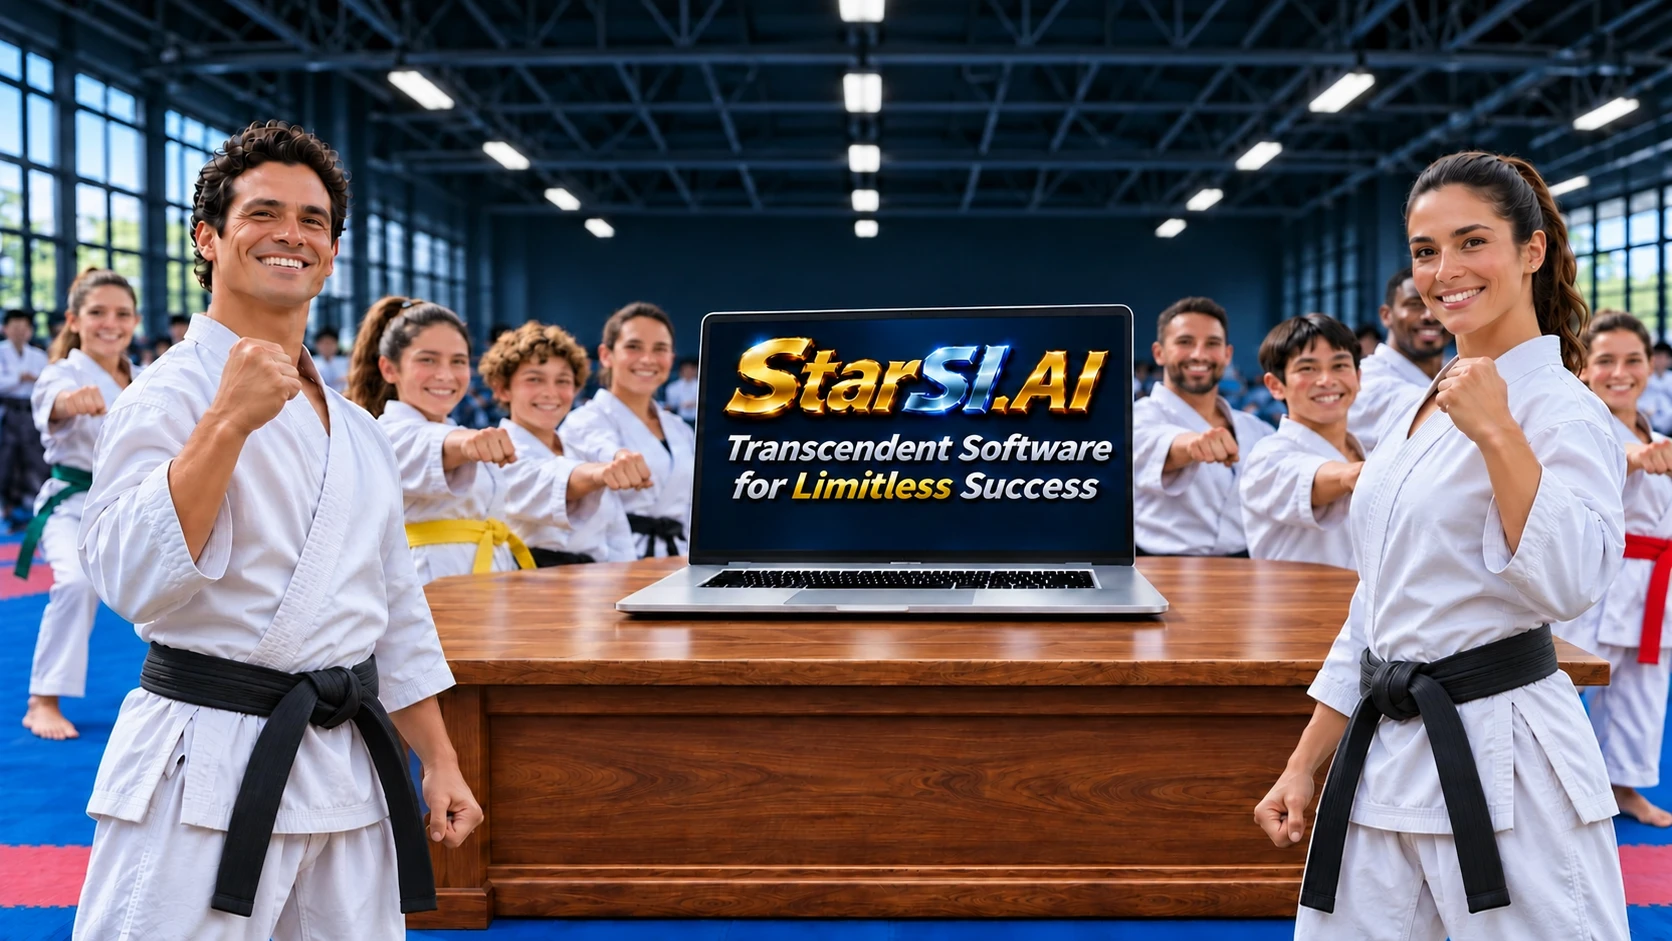
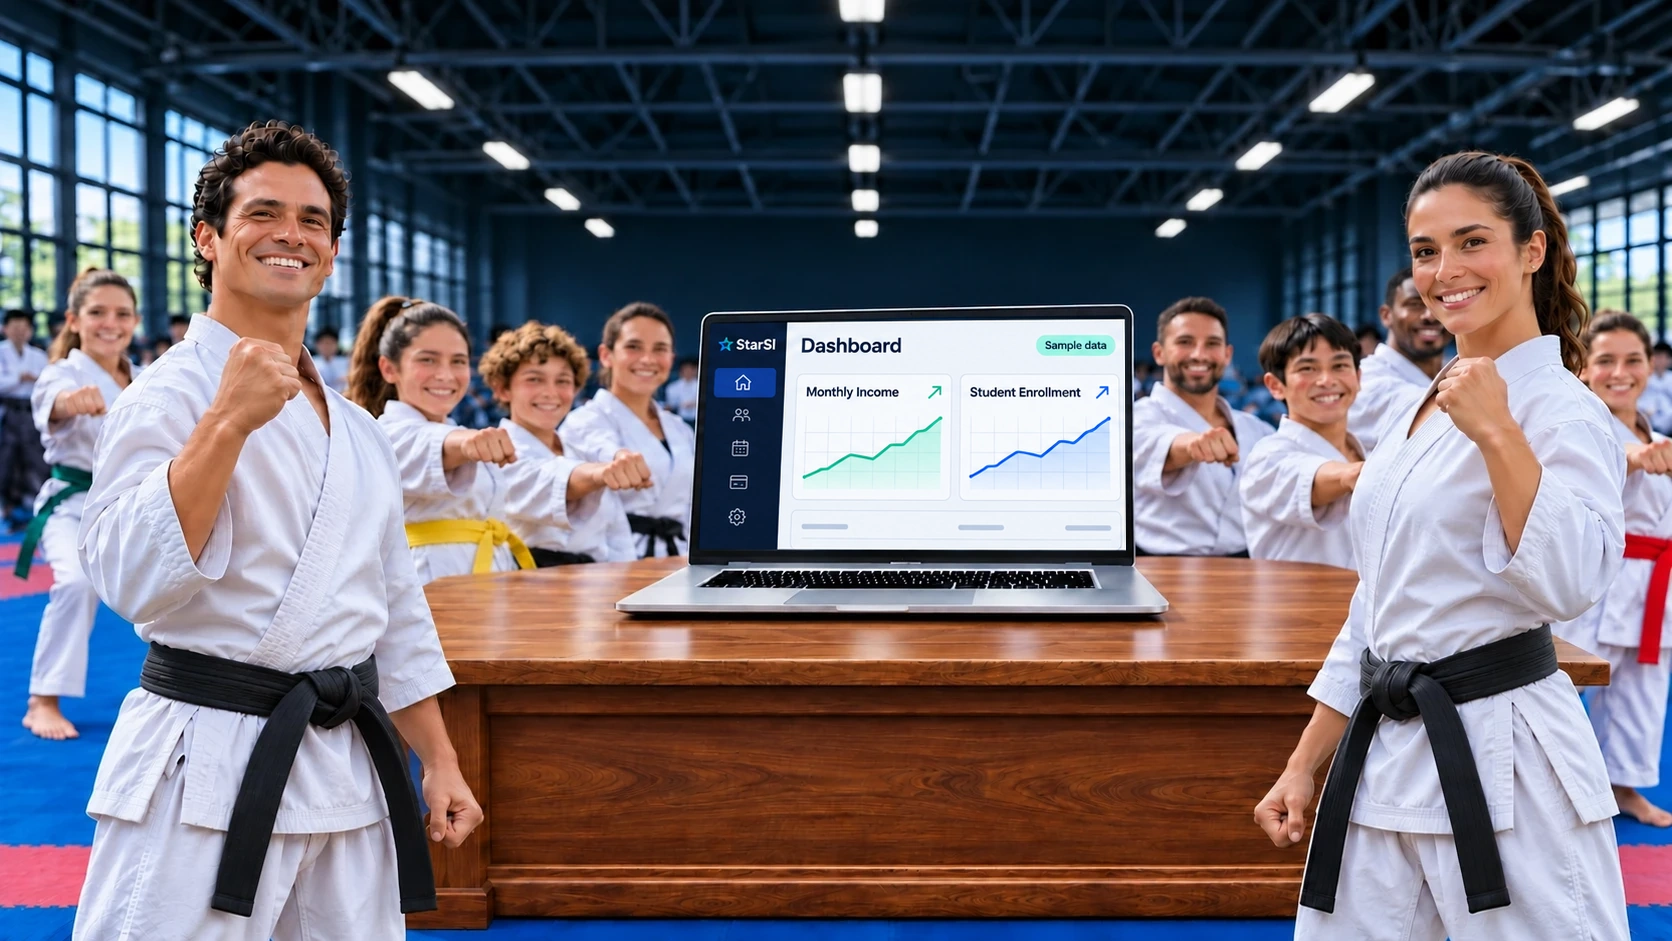
Show a StarSI dashboard and emphasize the hero paragraph (#12)

Changed region(s): [[0.4043, 0.339, 0.6842, 0.5855]]

diff --git a/sections/10-hero.css b/sections/10-hero.css
@@ -23,12 +23,22 @@
   .hero-heading, .hero-details { width: 100%; }
   .hero .eyebrow { color: #C8DFFF; }
   .hero h1 { max-width: 1000px; margin: 0 auto; font-size: clamp(36px, 4.7vw, 64px); text-shadow: 0 2px 12px rgba(0,0,0,.55); }
-  .hero .lead { max-width: 760px; margin: 0 auto 22px; color: #fff; text-wrap: pretty; text-shadow: 0 1px 6px rgba(0,0,0,.65); }
+  .hero .lead {
+    max-width: 790px;
+    margin: 0 auto 22px;
+    padding: 14px clamp(14px, 2.5vw, 28px);
+    border-radius: var(--radius);
+    background: rgba(3, 12, 27, .78);
+    color: #fff;
+    font-size: clamp(19px, 1.7vw, 24px);
+    font-weight: 650;
+    line-height: 1.45;
+    text-wrap: pretty;
+  }
   .hero .tags { justify-content: center; margin-top: 22px; }
   @media (max-width: 600px) {
     .hero { padding: 28px 0; min-height: 850px; }
     .hero .wrap { gap: 300px; }
-    .hero .lead { font-size: 17px; }
     .hero .tags { gap: 8px; }
   }
   .tags { display: flex; flex-wrap: wrap; gap: 10px; margin-top: 32px; }
